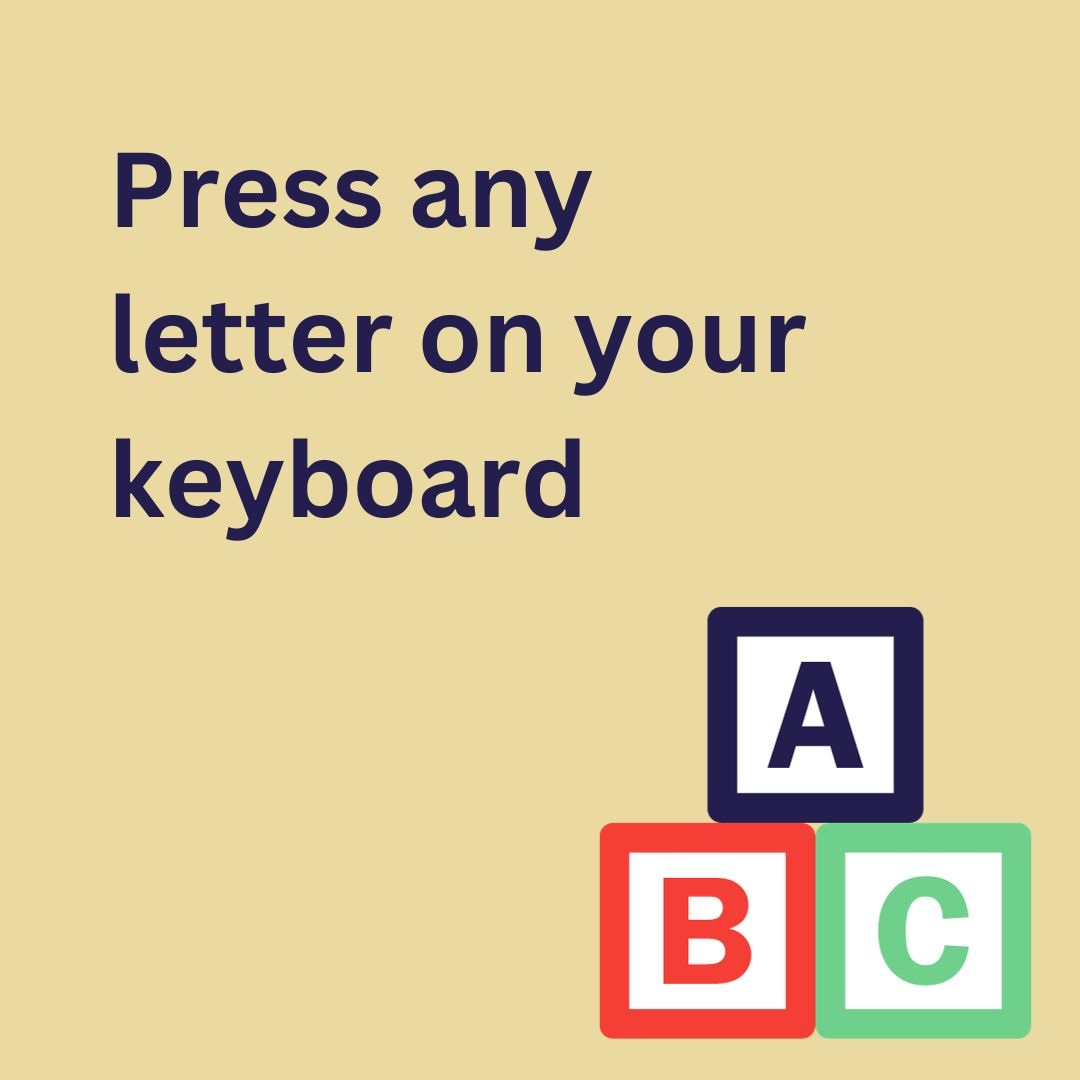
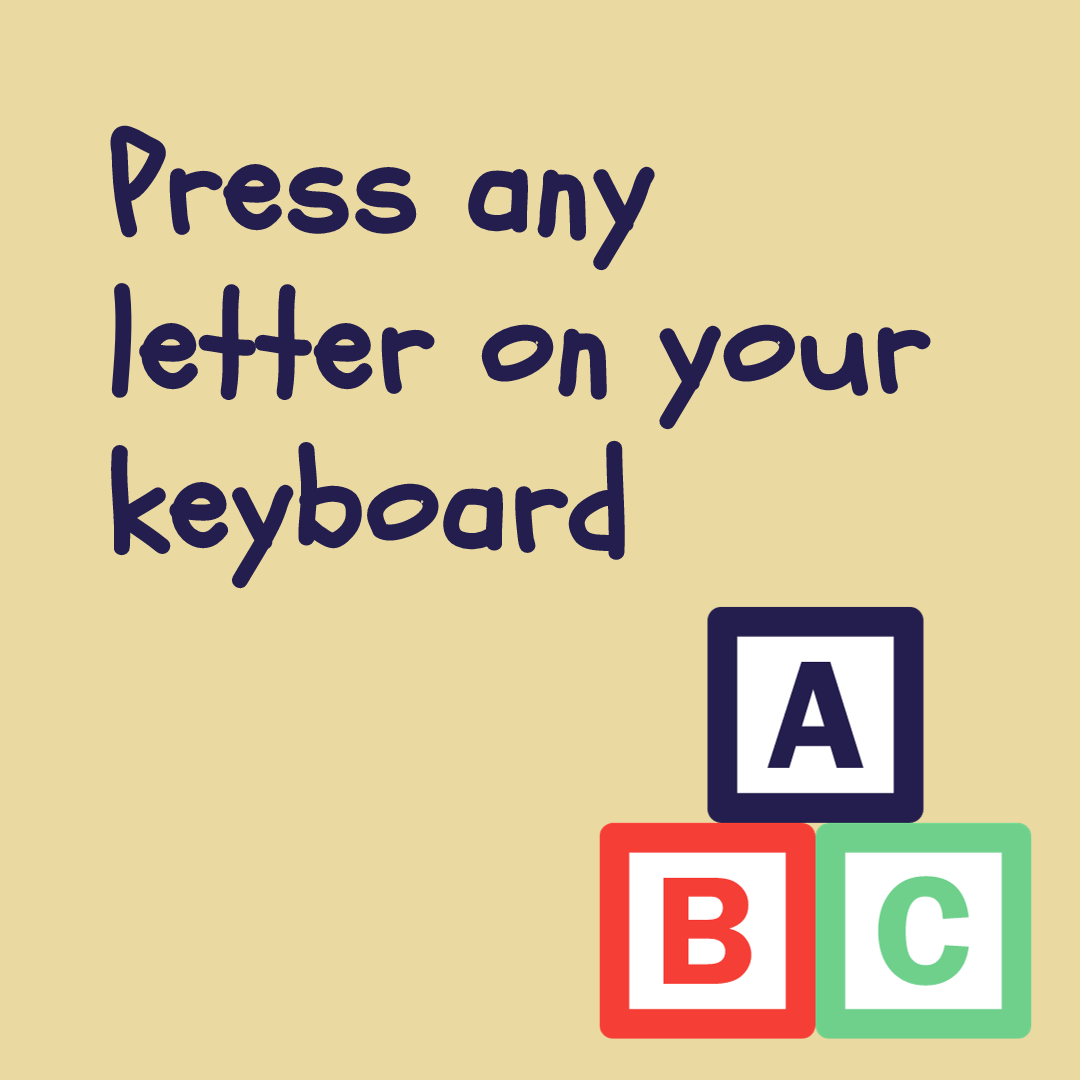
replace placeholder image to match app font

Changed region(s): [[0.0917, 0.2444, 0.8556, 0.3972], [0.0917, 0.3972, 0.5806, 0.55], [0.0917, 0.1222, 0.6111, 0.2444]]

diff --git a/index.js b/index.js
@@ -39,17 +39,16 @@ function handleFormSubmission(wordSubmission) {
 
 function renderDisplay(letter) {
     document.addEventListener('keypress', e => {
-        form.style.display = 'block'
+        form.style.display = 'block';
   
         if (submitedWord = true) {
             for (let i = 0; i<newWordList.length; i++) {
-                newWordList[i].remove()}}
+                newWordList[i].remove()}};
 
         if (e.target.tagName.toLowerCase() !== 'input') {
             let index = e.keyCode - 97;
 
             if (index >= 0 && index <= 25) {
-        
                 document.querySelector('#related-word-list').style.display = 'flex';
                 document.querySelector('#word-div').style.display = 'flex';
                 document.querySelector('#display-letter').style.display = 'flex';
@@ -70,14 +69,15 @@ function renderDisplay(letter) {
                 liTwo.innerText = letter[index].relatedWords[1];
 
                 imageButton.addEventListener('click', () => {
-                    photo.src = letter[index].livePhoto
-                    imageButton.style.display = 'none'
-                })
+                    photo.src = letter[index].livePhoto;
+                    imageButton.style.display = 'none';
+                });
                 photo.addEventListener('mouseover', (e) => {
-                    let tooltipContent = photo.title
-                    e.mouseover = tooltipContent
-            });
-        }}
-    }) 
+                    let tooltipContent = photo.title;
+                    e.mouseover = tooltipContent;
+                });
+            };
+        };
+    });
 };
 

diff --git a/index.html b/index.html
@@ -21,7 +21,6 @@
     <h2 class="display-letter"></h2>
   </div>
 
-
   <div id="image-div" class="photo-container">
     <img class="centered-photo" src="images/placeholder.jpg" alt="Centered Photo" title="">
     <button class="button-on-image">Make this picture come to life</button>
@@ -31,12 +30,12 @@
     <h3 class="centered-text"></h3>
   </div>
 
-<div id="related-word-div">
-  <ul id="related-word-list" class="related-word-list">
-    <li id="li-one" class="related-words">More Words</li>
-    <li id="li-two" class="related-words">More Words</li>
-  </ul>
-</div>
+  <div id="related-word-div">
+    <ul id="related-word-list" class="related-word-list">
+      <li id="li-one" class="related-words"></li>
+      <li id="li-two" class="related-words"></li>
+    </ul>
+  </div>
 
 <div id="input-form">
   <form id="form">
